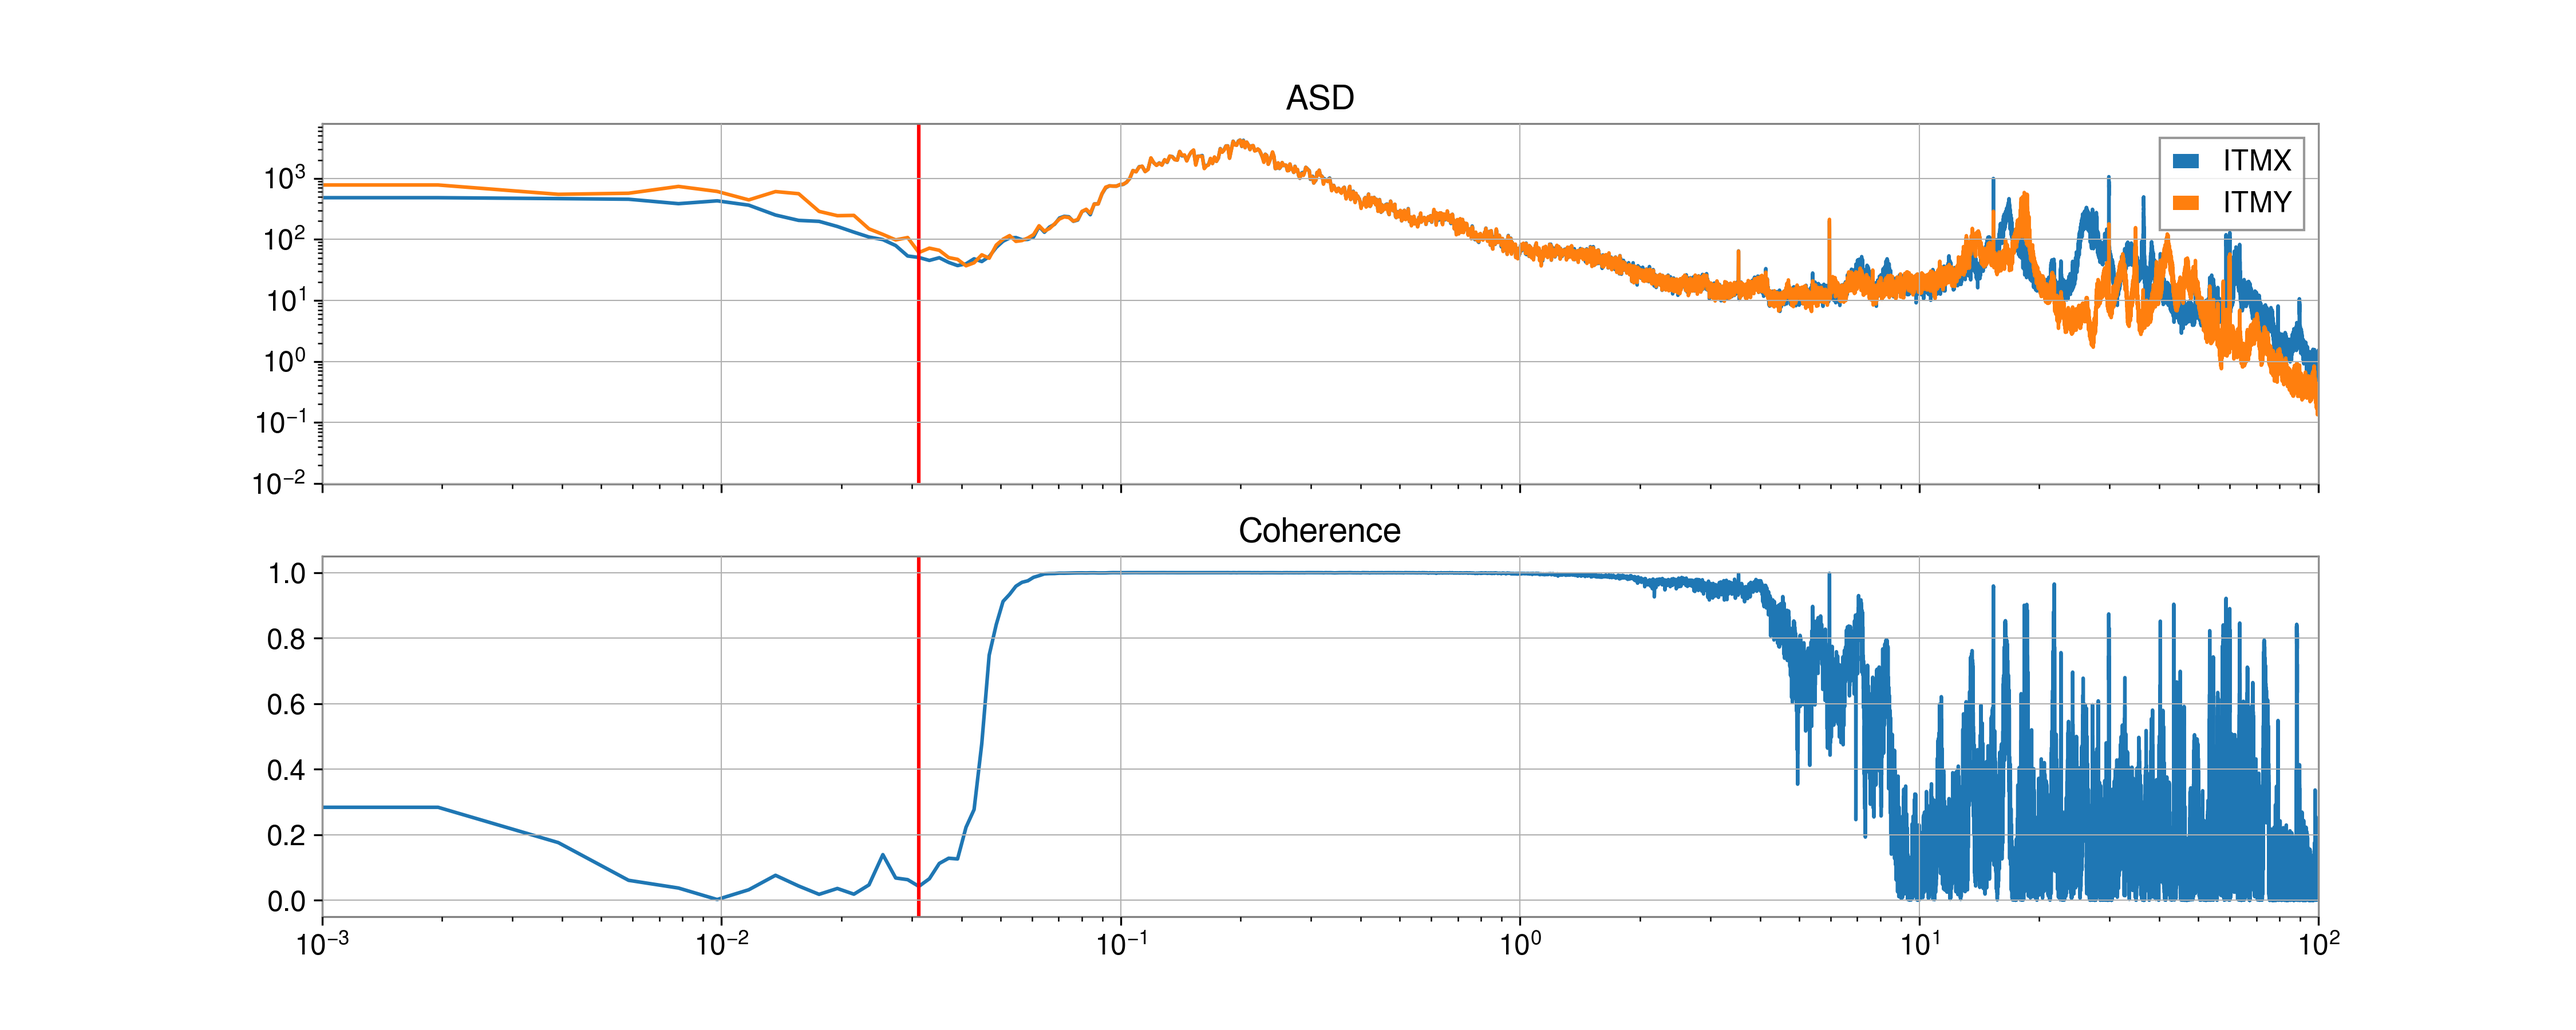
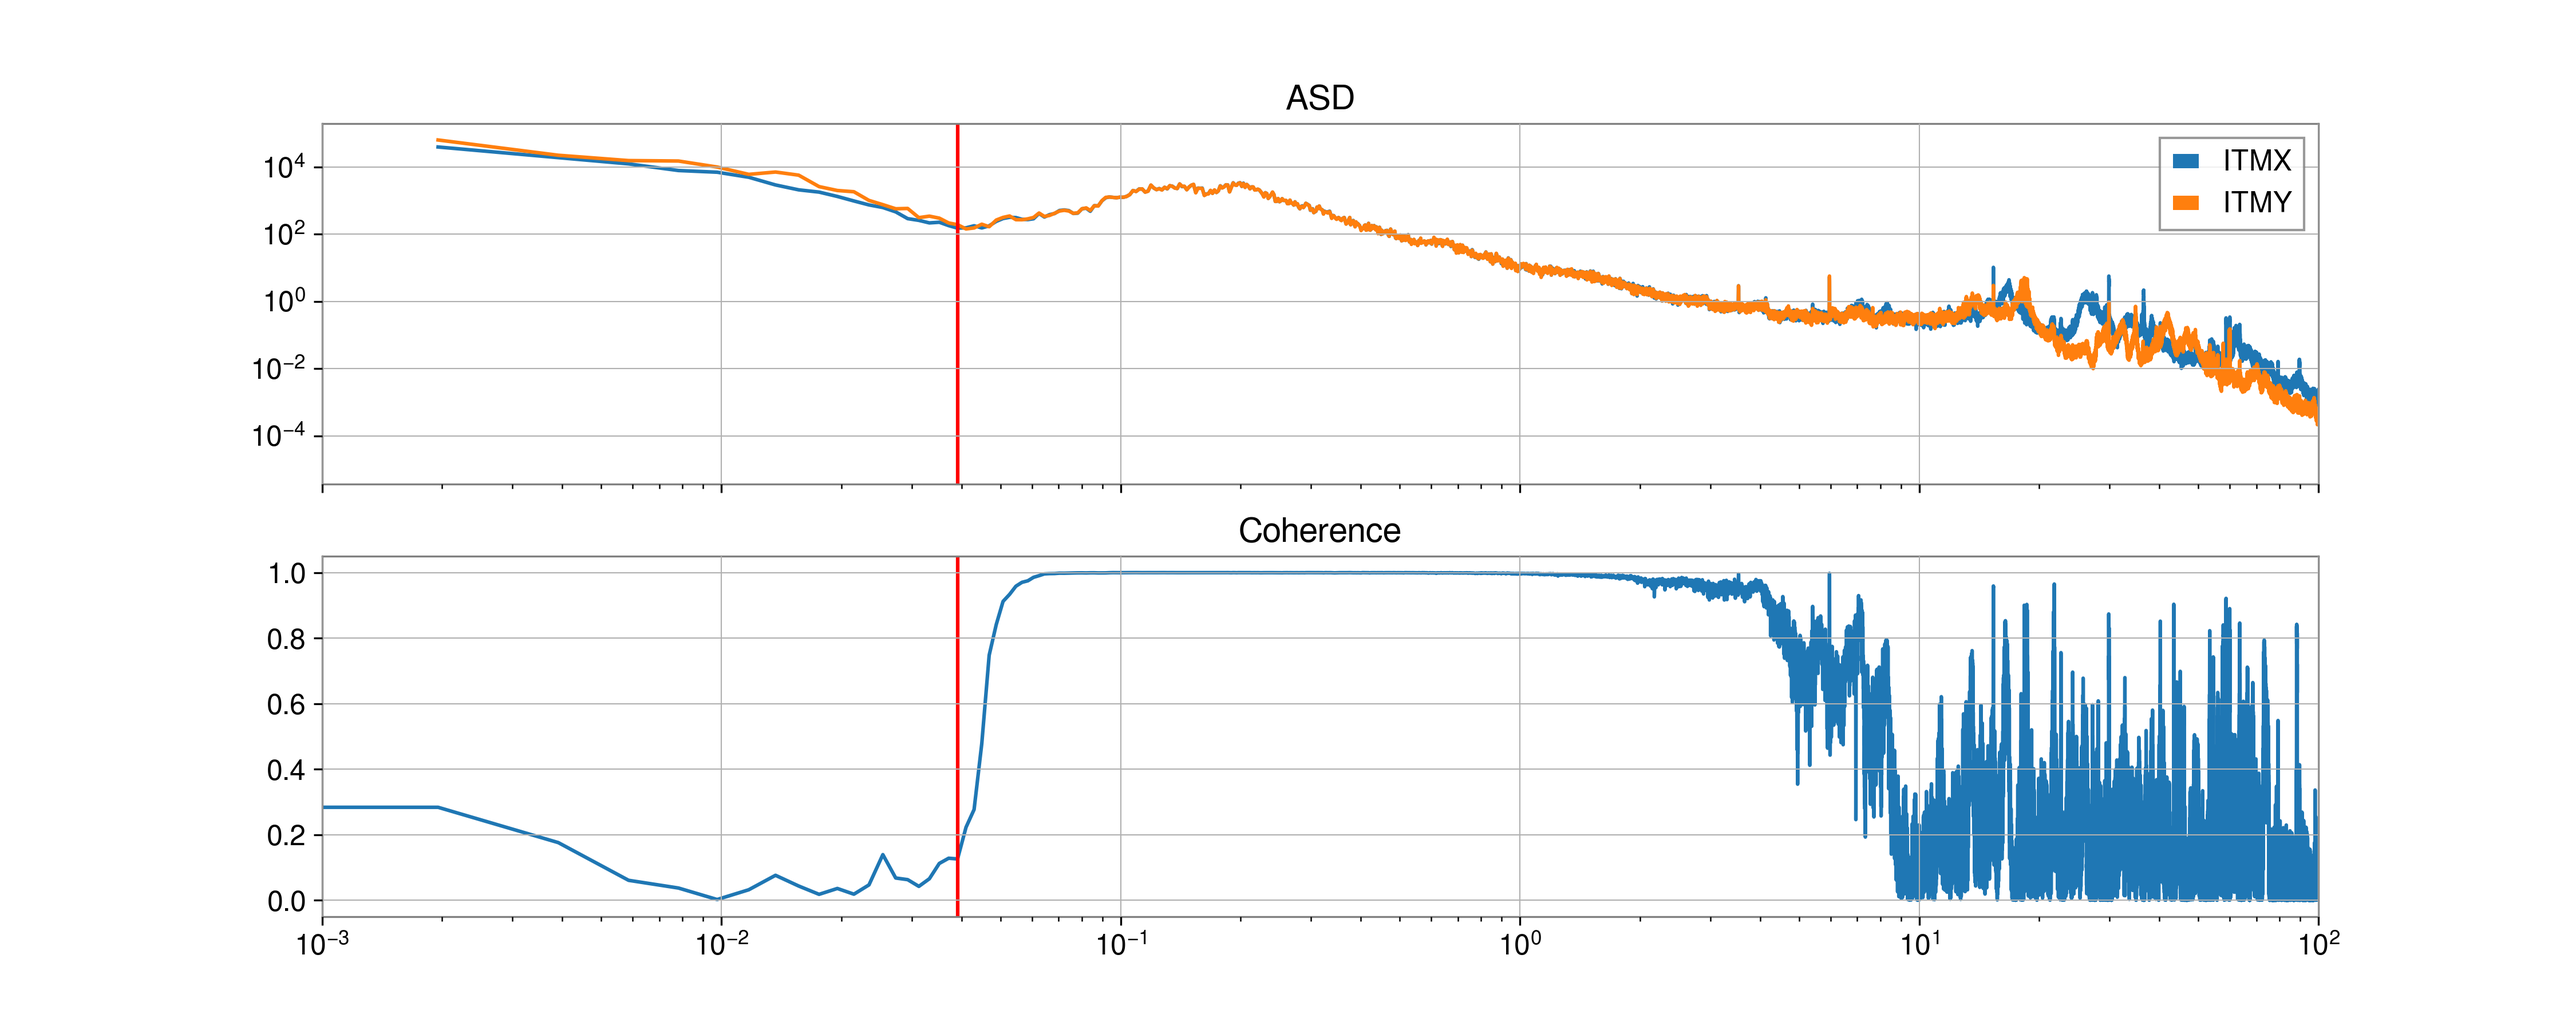
velocity to dispalcement

diff --git a/sammie/sammie/data.py b/sammie/sammie/data.py
@@ -24,10 +24,12 @@ def plot_asd_coherence(data_A, data_B, start_times, cutoff_freq=None):
 
     f,coh = coherence_calculator(data_A, data_B)
     fig, (ax1,ax2) = plt.subplots(2,1, sharex=True, figsize=(15,6))
-    asd_a = ITMX_data.asd(fftlength=512,overlap=0.5)
-    asd_b = ITMY_data.asd(fftlength=512,overlap=0.5)
-    ax1.plot(asd_a.frequencies, asd_a.value, label="ITMX")
-    ax1.plot(asd_b.frequencies, asd_b.value, label="ITMY")
+    asd_a = data_A.asd(fftlength=512,overlap=0.5)
+    asd_b = data_B.asd(fftlength=512,overlap=0.5)
+    asd_a_dis = asd_a.value/(2*np.pi*asd_a.frequencies)
+    asd_b_dis = asd_b.value/(2*np.pi*asd_b.frequencies)
+    ax1.plot(asd_a.frequencies, asd_a_dis, label="ITMX")
+    ax1.plot(asd_b.frequencies, asd_b_dis, label="ITMY")
     ax1.set_xlim(0.001,100)
     ax1.set_xscale('log')
     ax1.set_yscale('log')
@@ -44,71 +46,24 @@ def plot_asd_coherence(data_A, data_B, start_times, cutoff_freq=None):
 
 
 
-def frequency_minima_calculator(data_A, data_B):
+def frequency_minima_scipy_groundmotion(data_A, data_B):
 
     f,coh = coherence_calculator(data_A, data_B)
-
+    asd_a = data_A.asd(fftlength=512,overlap=0.5)
+    asd_b = data_B.asd(fftlength=512,overlap=0.5)
+    asd_a_dis = asd_a.value/(2*np.pi*asd_a.frequencies)
+    asd_b_dis = asd_b.value/(2*np.pi*asd_b.frequencies)
     # find the point where there is max coherence
     rounded_coh = np.round(coh, 2)
     first_one_coh = np.min(np.where(rounded_coh == 1.00))
-    corresponding_f = f[first_one_coh]
 
     # from that frequency position to 0 make freq-bins of given width and check for 
     # coherence difference in each bin
     check_array = np.arange(first_one_coh, 0, -config.bin_width)
-
-    for i in range(len(check_array)):
-        try:
-            sub_array = rounded_coh[check_array[i+1]:check_array[i]]
-            min_sub_array = np.min(sub_array)
-            max_sub_array = np.max(sub_array)
-            diff = max_sub_array - min_sub_array
-            if diff > config.coherence_diff:
-                location_within_subarray = np.where(sub_array == min_sub_array)[0]
-                indices_in_superarray = np.arange(check_array[i+1],check_array[i])
-                frequency = f[indices_in_superarray[location_within_subarray[0]]]
-                break
-        except:
-            print("reached the end. Substituting default check")
-            min_coh = np.min(rounded_coh[0:first_one_coh])
-            last_one_coh = np.max(np.where(rounded_coh[0:first_one_coh] == min_coh))
-            frequency = f[last_one_coh]
-
-    return frequency
-
-def frequency_minima_withscipy(data_A, data_B):
-
-    f,coh = coherence_calculator(data_A, data_B)
-
-    # find the point where there is max coherence
-    rounded_coh = np.round(coh, 2)
-    first_one_coh = np.min(np.where(rounded_coh == 1.00))
-
-    # from that frequency position to 0 make freq-bins of given width and check for 
-    # coherence difference in each bin
-    check_array = np.arange(first_one_coh, 0, -1)
-
-    for i in range(len(check_array)):
-        
-        try:
-            sub_array = rounded_coh[check_array[i+config.bin_width]:check_array[i]]     
-            min = argrelextrema(sub_array, np.less)
-            min_pos_ar = min[0]
-            if len(min_pos_ar) != 0:
-                print(sub_array[min[0]])
-                print(np.max(np.where(rounded_coh[0:first_one_coh] == sub_array[min_pos_ar[0]])))
-                frequency = f[np.max(np.where(rounded_coh[0:first_one_coh] == sub_array[min_pos_ar[0]]))]
-                
-                if sub_array[min[0][0]] < 0.4:
-                    return frequency
-                    break
-        except:
-            print("reached the end. Substituting default check")
-            min_coh = np.min(rounded_coh[0:first_one_coh])
-            last_one_coh = np.max(np.where(rounded_coh[0:first_one_coh] == min_coh))
-            frequency = f[last_one_coh]
-
-    return frequency
+    min_asd = np.min(asd_a_dis[0:first_one_coh])
+    last_one_coh = np.max(np.where(asd_a_dis[0:first_one_coh] == min_asd))
+    frequency = asd_a.frequencies[last_one_coh]
+    return frequency.value
 
 
 conn = nds2.connection('nds.ligo-la.caltech.edu',31200)
@@ -123,24 +78,5 @@ for start_times in config.gps_sample_list:
                                     start_times, start_times + 
                                     (config.averages*config.coherence_overlap +1)*config.coherence_fftlen, conn )
     print("done")
-    cutoff_freq = frequency_minima_withscipy(ITMX_data, ITMY_data)
+    cutoff_freq = frequency_minima_scipy_groundmotion(ITMX_data, ITMY_data)
     plot_asd_coherence(ITMX_data, ITMY_data, start_times, cutoff_freq)
-
-
-'''
-        try:
-            sub_array = rounded_coh[check_array[i+1]:check_array[i]]
-            min = argrelextrema(sub_array, np.less)
-            print(f'min {min}')
-            if len(min) != 0:
-                print(sub_array[min[0]])
-                print(np.max(np.where(rounded_coh[0:first_one_coh] == min_coh)))
-                frequency = f[np.max(np.where(rounded_coh[0:first_one_coh] == min_coh))]
-                print(frequency)
-
-        except:
-            print("reached the end. Substituting default check")
-            min_coh = np.min(rounded_coh[0:first_one_coh])
-            last_one_coh = np.max(np.where(rounded_coh[0:first_one_coh] == min_coh))
-            frequency = f[last_one_coh]
-'''

diff --git a/sammie/sammie/scrap_code.py b/sammie/sammie/scrap_code.py
@@ -1,0 +1,82 @@
+
+from gwpy.timeseries import TimeSeries
+from etc import config
+import numpy as np
+from scipy.signal import coherence
+from scipy.signal import argrelextrema
+from scipy import optimize
+import matplotlib.pyplot as plt
+import nds2
+
+
+def coherence_calculator(data_A, data_B):
+    rate = data_A.sample_rate.value
+    f,coh = coherence(data_A.value,data_B.value, fs=rate, nperseg=rate*512, noverlap=rate*512/2)
+    return f,coh
+
+
+def frequency_minima_calculator(data_A, data_B):
+
+    f,coh = coherence_calculator(data_A, data_B)
+
+    # find the point where there is max coherence
+    rounded_coh = np.round(coh, 2)
+    first_one_coh = np.min(np.where(rounded_coh == 1.00))
+    corresponding_f = f[first_one_coh]
+
+    # from that frequency position to 0 make freq-bins of given width and check for 
+    # coherence difference in each bin
+    check_array = np.arange(first_one_coh, 0, -config.bin_width)
+
+    for i in range(len(check_array)):
+        try:
+            sub_array = rounded_coh[check_array[i+1]:check_array[i]]
+            min_sub_array = np.min(sub_array)
+            max_sub_array = np.max(sub_array)
+            diff = max_sub_array - min_sub_array
+            if diff > config.coherence_diff:
+                location_within_subarray = np.where(sub_array == min_sub_array)[0]
+                indices_in_superarray = np.arange(check_array[i+1],check_array[i])
+                frequency = f[indices_in_superarray[location_within_subarray[0]]]
+                break
+        except:
+            print("reached the end. Substituting default check")
+            min_coh = np.min(rounded_coh[0:first_one_coh])
+            last_one_coh = np.max(np.where(rounded_coh[0:first_one_coh] == min_coh))
+            frequency = f[last_one_coh]
+
+    return frequency
+
+def frequency_minima_withscipy(data_A, data_B):
+
+    f,coh = coherence_calculator(data_A, data_B)
+
+    # find the point where there is max coherence
+    rounded_coh = np.round(coh, 2)
+    first_one_coh = np.min(np.where(rounded_coh == 1.00))
+
+    # from that frequency position to 0 make freq-bins of given width and check for 
+    # coherence difference in each bin
+    check_array = np.arange(first_one_coh, 0, -1)
+
+    for i in range(len(check_array)):
+        
+        try:
+            sub_array = rounded_coh[check_array[i+config.bin_width]:check_array[i]]     
+            min = argrelextrema(sub_array, np.less)
+            min_pos_ar = min[0]
+            if len(min_pos_ar) != 0:
+                print(sub_array[min[0]])
+                print(np.max(np.where(rounded_coh[0:first_one_coh] == sub_array[min_pos_ar[0]])))
+                frequency = f[np.max(np.where(rounded_coh[0:first_one_coh] == sub_array[min_pos_ar[0]]))]
+                
+                if sub_array[min[0][0]] < 0.4:
+                    return frequency
+                    break
+        except:
+            print("reached the end. Substituting default check")
+            min_coh = np.min(rounded_coh[0:first_one_coh])
+            last_one_coh = np.max(np.where(rounded_coh[0:first_one_coh] == min_coh))
+            frequency = f[last_one_coh]
+
+    return frequency
